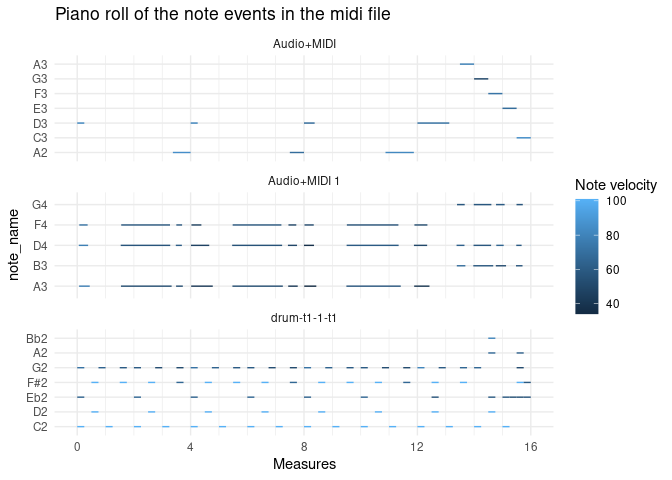
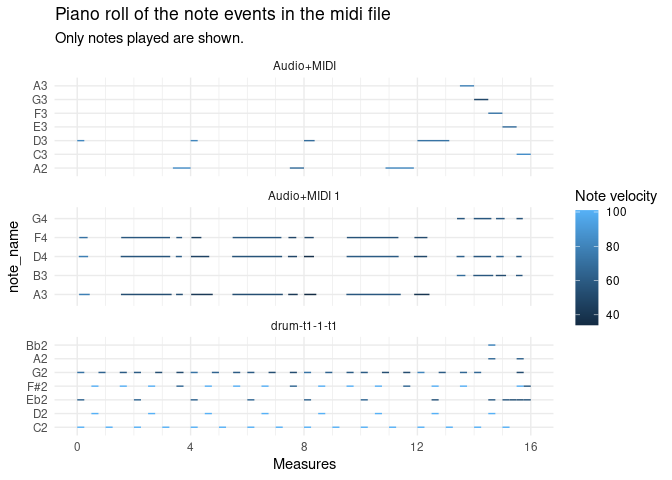
add subtitle to piano roll

diff --git a/README.md b/README.md
@@ -280,7 +280,10 @@ df_notes_wide %>%
               ncol = 1,
               scales = "free_y") + 
   guides(color=guide_colorbar(title="Note velocity")) +
-  labs(title = "Piano roll of the note events in the midi file") +
+  labs(
+    title = "Piano roll of the note events in the midi file",
+    subtitle = "Only notes played are shown."
+  ) +
   xlab("Measures") +
   scale_x_continuous(breaks = seq(0, 16, 4),
                      minor_breaks = 0:16) +
